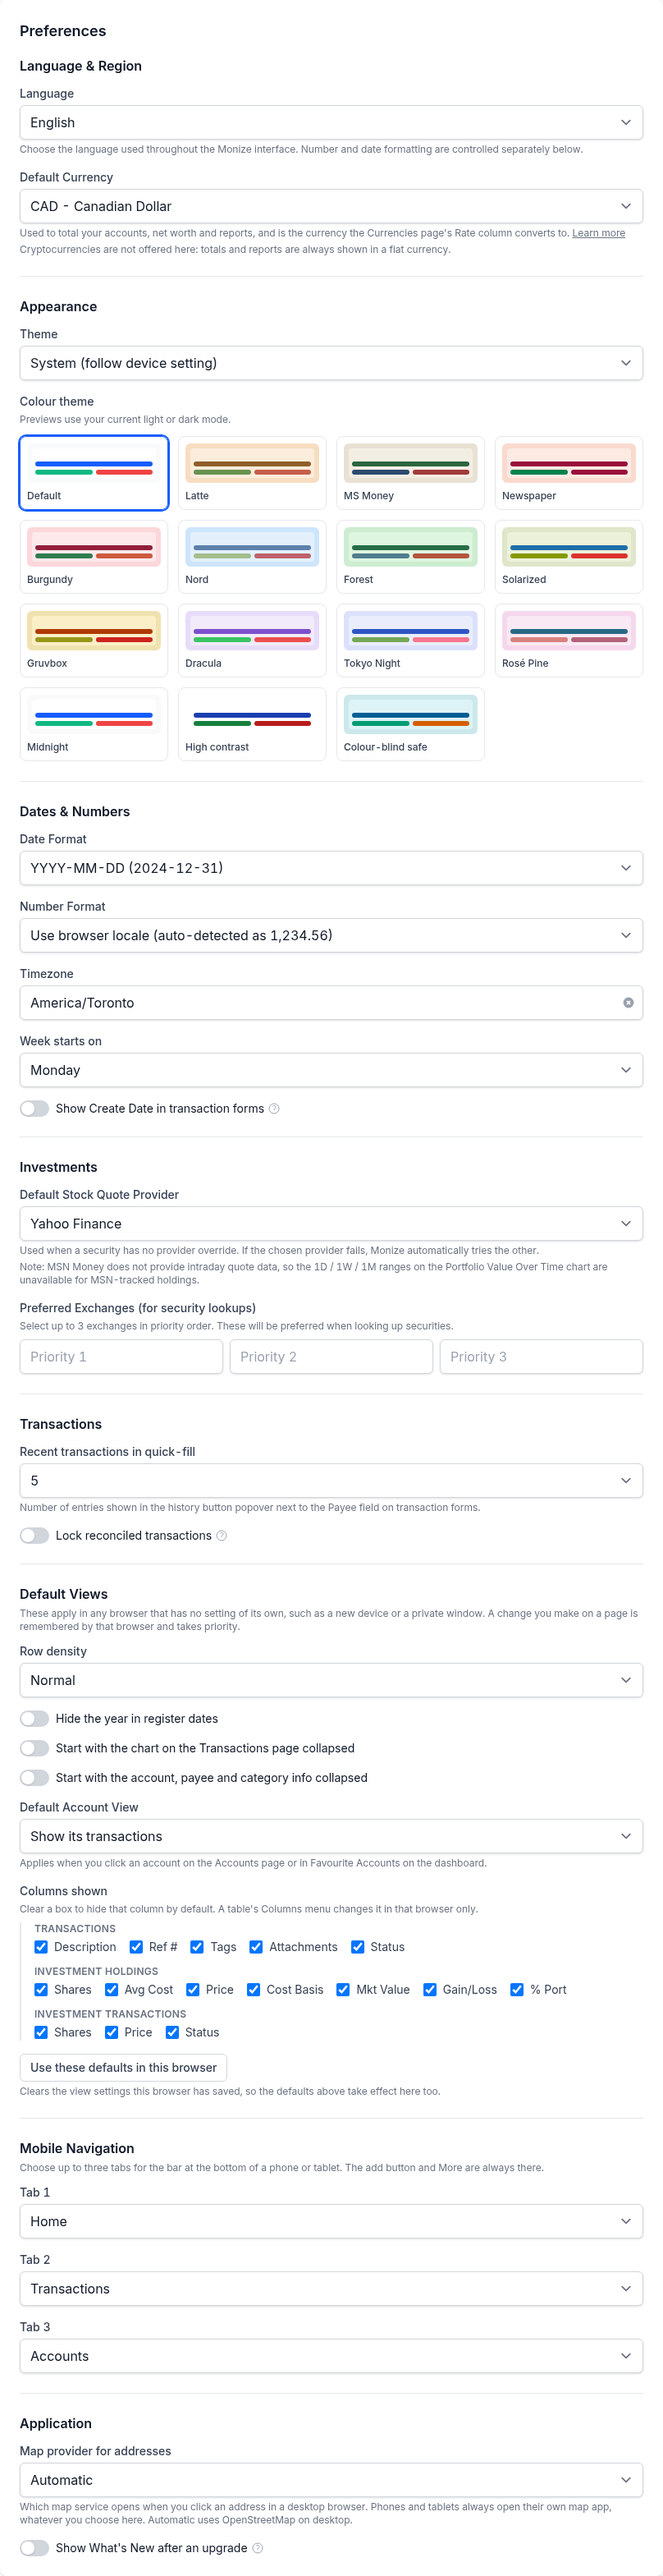
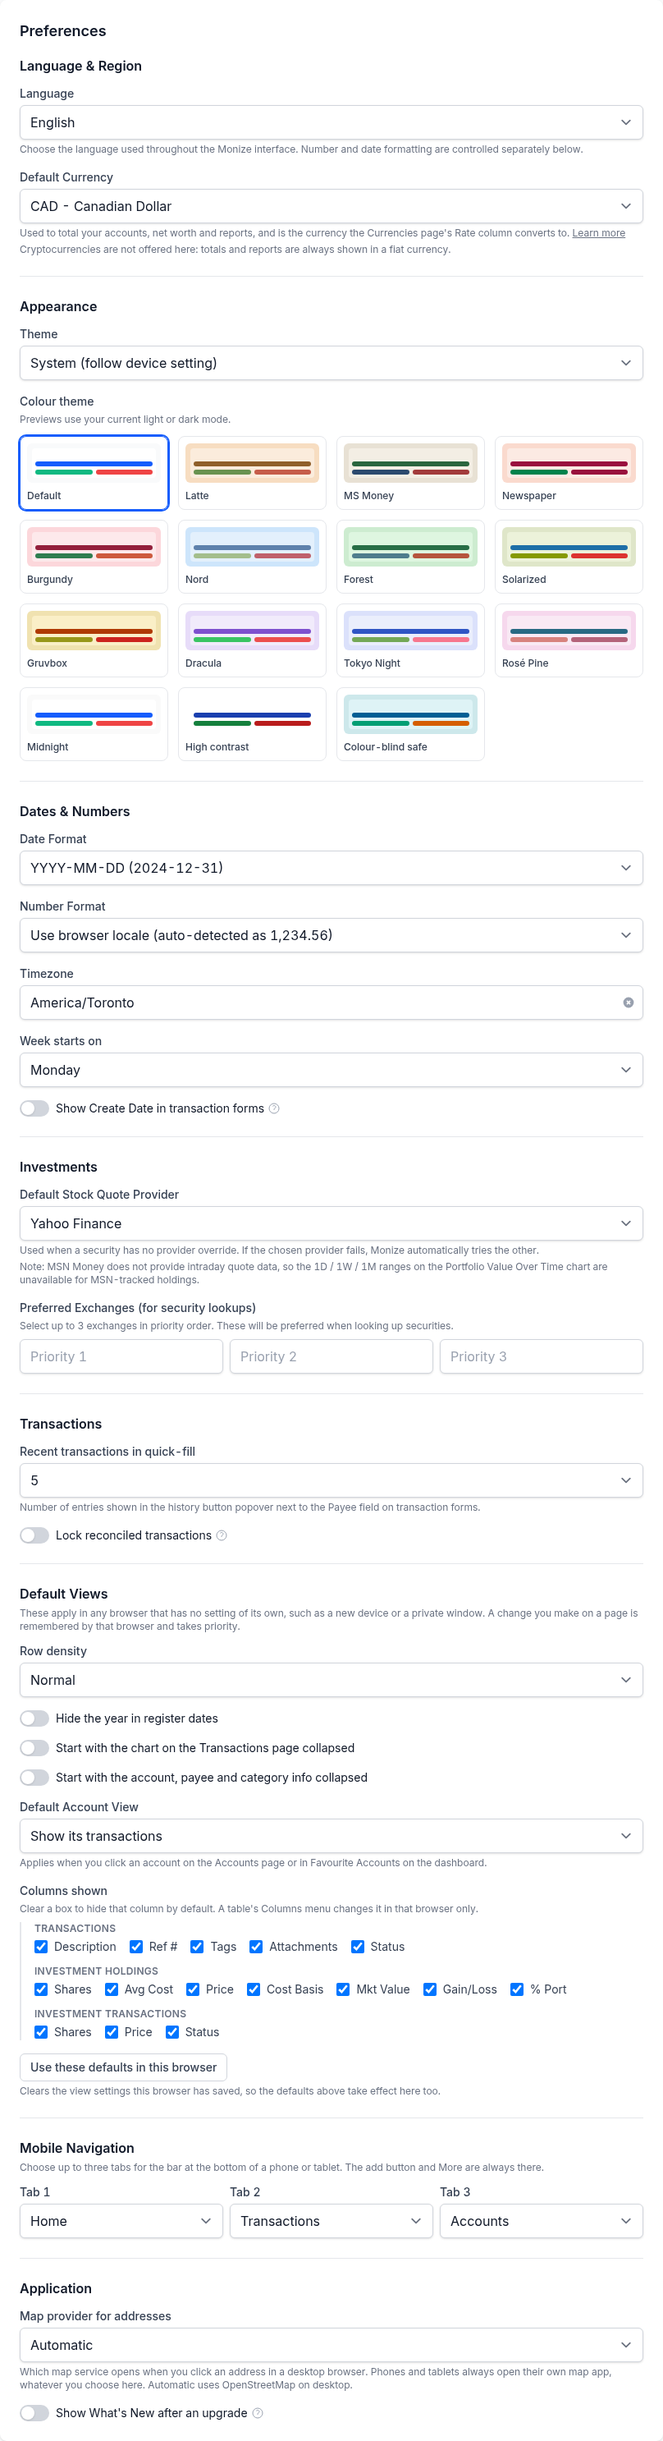
fix(settings): put the mobile tab pickers on one row
Matches the Preferred Exchanges row beside it, at every width.

diff --git a/website/docs/settings-and-security.html b/website/docs/settings-and-security.html
@@ -18,7 +18,7 @@
 <p>Changing your email address asks for your <strong>Current Password</strong> as well. When the server can send email, the change does not take effect straight away: Monize sends a confirmation link to the new address (and a notice to the old one), and the section shows <em>&quot;A confirmation link was sent to ... Your email address changes once you follow it.&quot;</em> Follow the link, then sign in again with the new address. A newer request replaces a pending one, so only the latest link works. On a server without email, the change applies as soon as you save.</p>
 <h3 id="preferences">Preferences<a class="hlink" href="#preferences" aria-label="Link to this section">#</a></h3>
 <p>Preferences are grouped into seven blocks. <strong>They save as you change them</strong> -- there is no Save button; each change is written immediately and confirmed with a toast.</p>
-<figure><img src="/docs/images/settings-preferences.png" alt="The Preferences section" width="808" height="3137" loading="lazy" decoding="async" class="shot-dark"/><img src="/docs/images/settings-preferences.light.png" alt="The Preferences section" width="808" height="3137" loading="lazy" decoding="async" class="shot-light"/><figcaption>The Preferences section</figcaption></figure>
+<figure><img src="/docs/images/settings-preferences.png" alt="The Preferences section" width="808" height="2973" loading="lazy" decoding="async" class="shot-dark"/><img src="/docs/images/settings-preferences.light.png" alt="The Preferences section" width="808" height="2973" loading="lazy" decoding="async" class="shot-light"/><figcaption>The Preferences section</figcaption></figure>
 <h4 id="language--region">Language &amp; Region<a class="hlink" href="#language--region" aria-label="Link to this section">#</a></h4>
 <div class="table-wrap"><table><thead><tr><th>Setting</th><th>Description</th></tr></thead><tbody><tr><td><strong>Language</strong></td><td>The display language for the Monize interface (see <a href="#language">Language</a>)</td></tr><tr><td><strong>Default Currency</strong></td><td>Primary currency for reporting and dashboard totals</td></tr></tbody></table></div>
 <h4 id="appearance">Appearance<a class="hlink" href="#appearance" aria-label="Link to this section">#</a></h4>

diff --git a/frontend/src/components/settings/MobileTabsGroup.tsx b/frontend/src/components/settings/MobileTabsGroup.tsx
@@ -67,7 +67,7 @@ export function MobileTabsGroup({ initial, commit, className }: MobileTabsGroupP
         {t('groups.mobileNavigation')}
       </h3>
       <p className="text-xs text-gray-500 dark:text-gray-400 mb-3">{t('mobileTabs.intro')}</p>
-      <div className="space-y-4">
+      <div className="grid grid-cols-3 gap-2">
         {SLOTS.map((slot) => (
           <Select
             key={slot}
